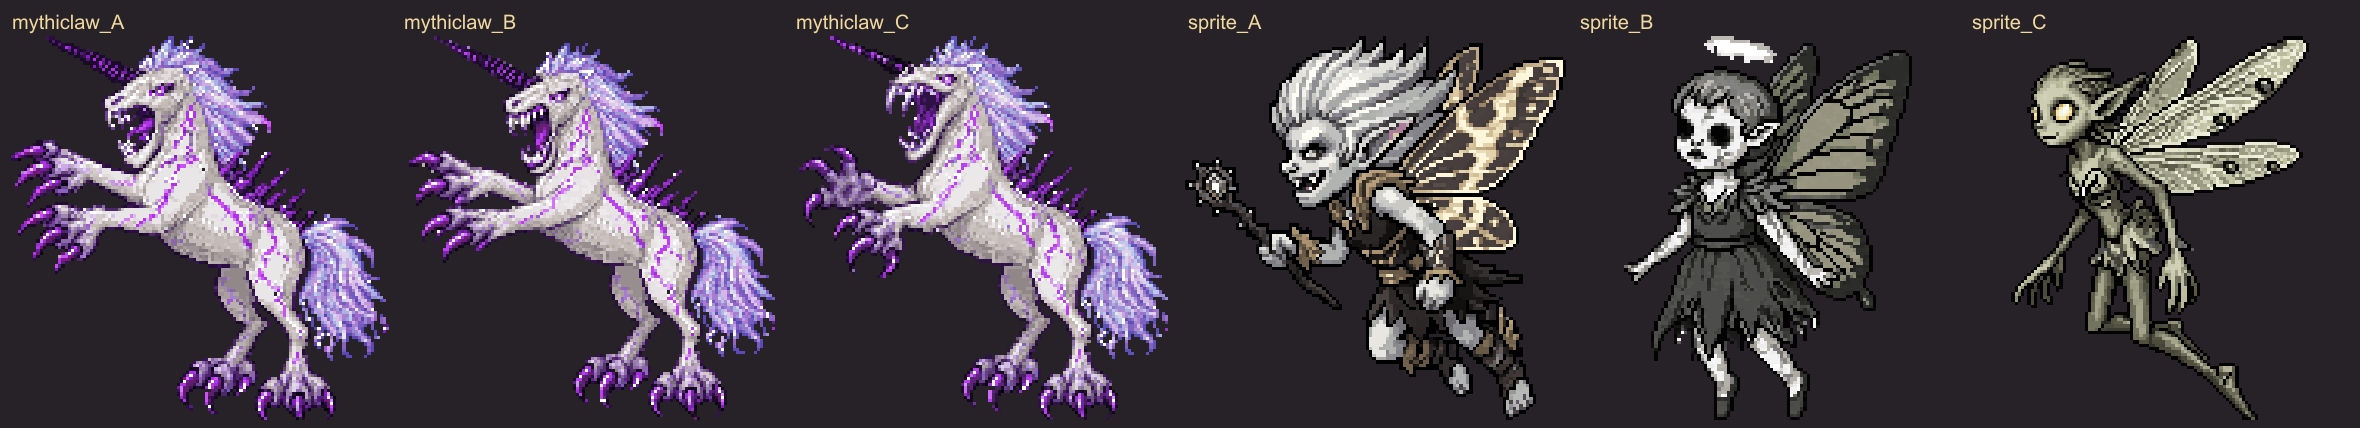
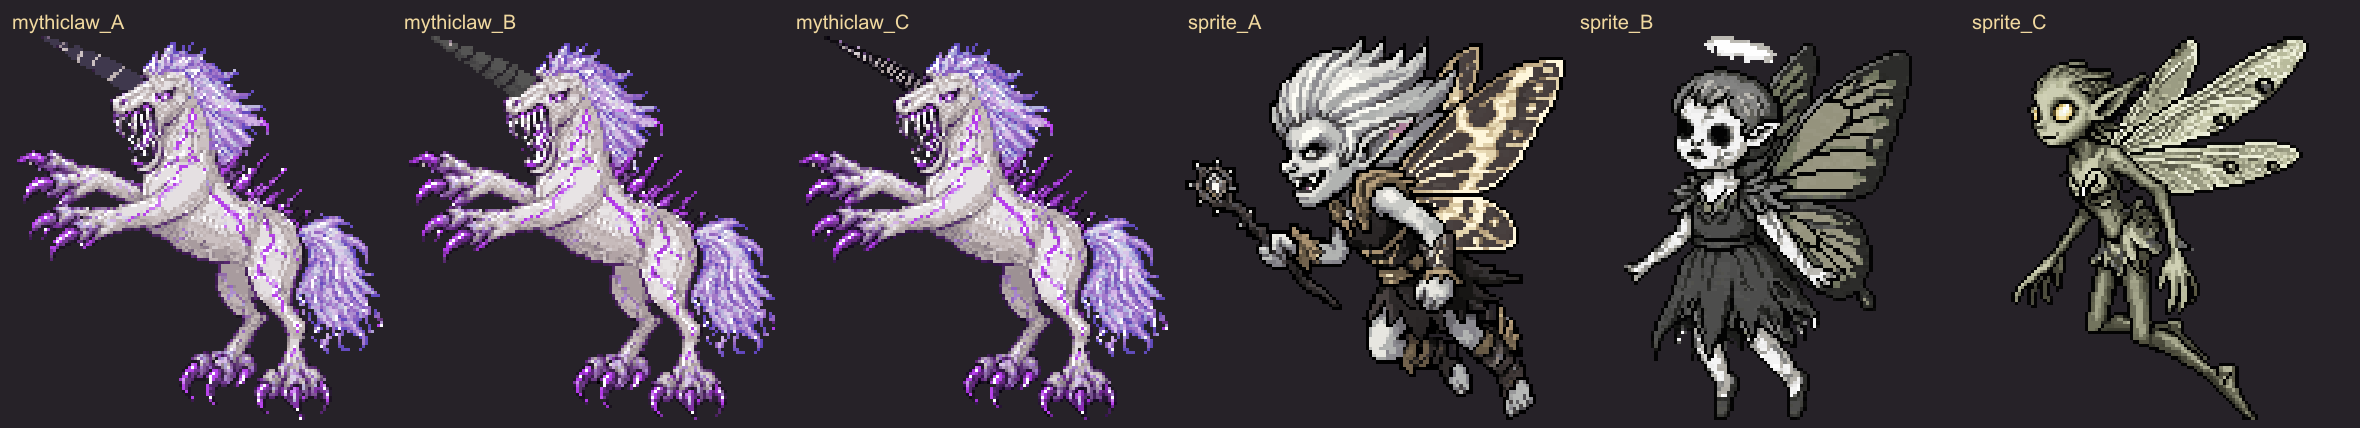
The Mythiclaw on the user's pick B: more fangs filling its roaring mouth and a clean grey-black horn with light grey ridges (a flat black horn broke up against the Labyrinth's dark). Three horn versions are the finalists; A is in the game until they pick.

diff --git a/lib/sprites/creatures.ts b/lib/sprites/creatures.ts
@@ -19,7 +19,7 @@ const ART_SIZES: Record<string, [number, number]> = {
   moss_wolf: [82, 65],
   amber_wasp: [62, 55],
   bellow_toad: [90, 68],
-  dire_wolf: [121, 123], // the Mythiclaw (2026-11-26; the Dire Wolf's old art is rooms/dire_wolf_scene.png)
+  dire_wolf: [122, 128], // the Mythiclaw (2026-11-26; the Dire Wolf's old art is rooms/dire_wolf_scene.png)
   ironhide: [122, 87],
   cave_bat: [60, 63], // the Cave Goblin (was the Cave Bat; the id stays for old saves)
   rust_beetle: [81, 68],

diff --git a/public/sprites/PIXELLAB.md b/public/sprites/PIXELLAB.md
@@ -41,7 +41,7 @@ the PNG here.
 | creatures/troglodyte_brute.png | job 67ed269a-ca13-4765-83fe-b35df2944608 (pixen 128×128, gallery c335fd01-ea0d-5785-9bb3-faf5f7481f87) |
 | creatures/gravewarden.png | job 8cd2d3c2-fcb0-40b4-a98b-b79505ae73b1 (pixen 128×128, gallery bde346e7-3644-5a5e-bdd9-8584e533f2a6) |
 | creatures/hexed_puppet.png | edit_image_pro_flash 54cf04de-84a8-4d7d-b7e3-9524eba3d90e (a whole marionette cross) of pixen cc79a273-a6d2-476f-ad22-1e19d5242628 |
-| creatures/dire_wolf.png | the Mythiclaw (2026-11-26; the Dire Wolf's art moved to rooms/dire_wolf_scene.png), restyled to the user's reference (art/new-creatures-2026-11-26/ref): edit_image_pro_flash 94a644c3-e5f2-4463-9dc9-c45c95c8ae9c (front claws thrust forward, dark horn, wider mouth) of dc199782-3504-41c5-b438-1f37f8f5f58a (heavy claws, by the user's reference) of 73ddf64f-9ba9-473c-bf27-38dfdc6278c9 of 0cdac18a-04e7-4dae-99ae-5bf7e993f0c3 of the rearing edit ea24f831-e781-43a5-8db0-5b98067ff58f; option A of three (stand-in until the user picks) |
+| creatures/dire_wolf.png | the Mythiclaw (2026-11-26; the Dire Wolf's art moved to rooms/dire_wolf_scene.png), restyled to the user's reference (art/new-creatures-2026-11-26/ref): edit_image_pro_flash c66ce2cb-1abb-4db8-9a3a-ff2f43a85619 (clean charcoal horn, light grey ridges) of a1b91ad4-7a01-4fcb-bf24-67a475673d93 (more fangs, black/grey horn) of 5b912fc0-92ba-4ef2-a57e-d450709078dc (front claws thrust forward, wider mouth) of dc199782-3504-41c5-b438-1f37f8f5f58a (heavy claws, by the user's reference) of 73ddf64f-9ba9-473c-bf27-38dfdc6278c9 of 0cdac18a-04e7-4dae-99ae-5bf7e993f0c3 of the rearing edit ea24f831-e781-43a5-8db0-5b98067ff58f; option A of three (stand-in until the user picks) |
 | creatures/labyrinth_sprite.png | edit_image_pro_flash c5ece9ed-93db-4bfb-ac56-76ac7a1ec93c (white-gold glowing eyes) of pixen 399499dc-a679-4dc3-8a3d-d87dc22c41ad; option C, the user's pick (2026-11-26) |
 | creatures/deep_angler.png | gallery:aa6e8bcd-c214-4545-8890-8c9f9b18fcb7 (raw generation; trimmed + mirrored here) |
 | creatures/tunnel_wyrm.png | gallery:6b352516-6423-470d-8f0c-1b50394f10a9 (raw generation; trimmed + mirrored here) |

diff --git a/art/new-creatures-2026-11-26/README.md b/art/new-creatures-2026-11-26/README.md
@@ -42,4 +42,9 @@ the front claws more facing forward (currently all claws just sag down), the hor
 K1 and three edits of it. **The Mythiclaw finalists now:** A = P2, B = P1 (front claws thrust forward, dark horn, roaring),
 C = P3 (grabbing claws, blackest horn, widest jaw).
 
+Those are in finals/fourth-look/. The user: "B is better face structure but with more teeth … the horn needs to be cleaner and
+black/grey." round12.png: P1 (B) and T1–T3 (more fangs, black-grey horn, but speckled). round13.png: flat black horns broke up
+and vanished on the dark ground. round14.png: a charcoal horn with light grey ridges reads clean. **The Mythiclaw finalists now:**
+A = G2 (slim banded grey horn), B = G1 (chunkier), C = T2 (darkest, speckled), all with B's face, more teeth, claws forward.
+
 **The Labyrinth Sprite: C, the user's pick** (2026-11-26), in the game.
